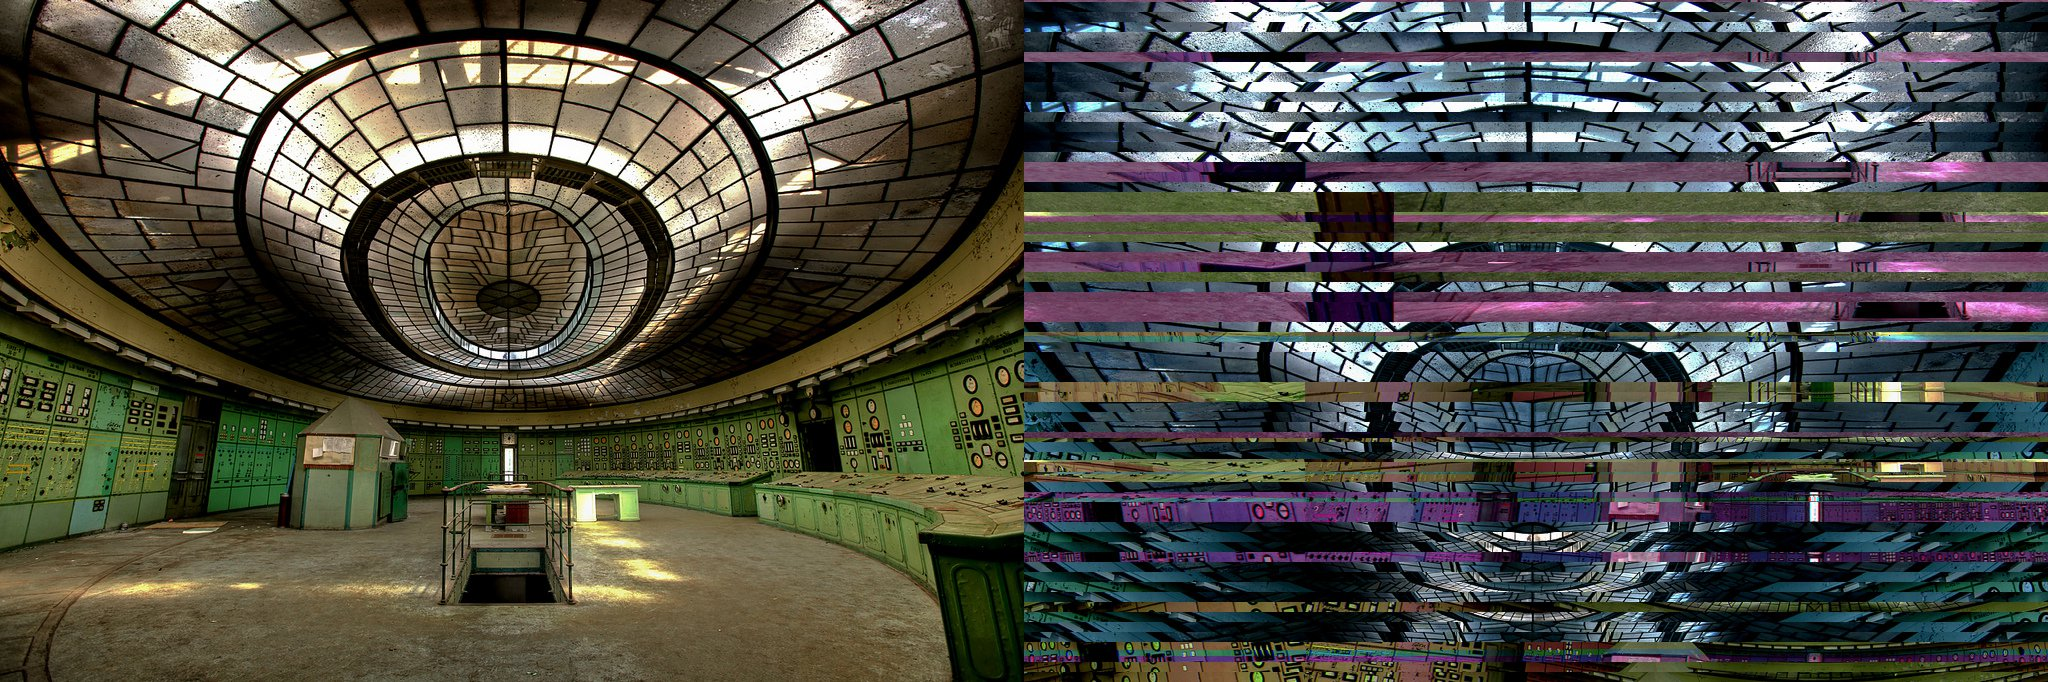
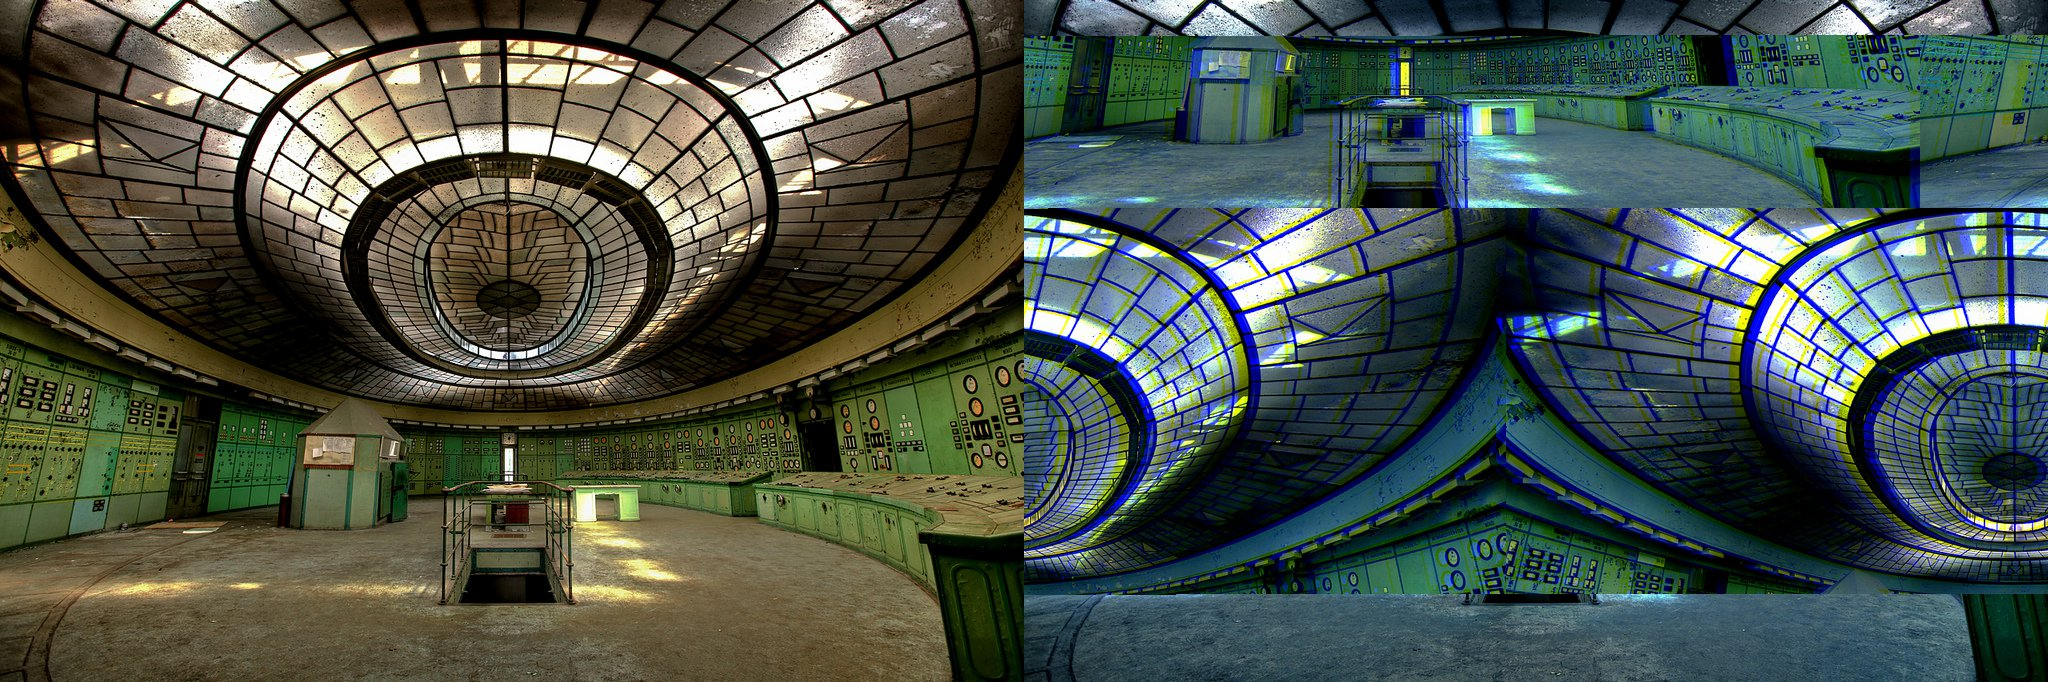
nn

diff --git a/pixels.py b/pixels.py
@@ -1,6 +1,6 @@
 import pygame
 from time import sleep
-from random import random
+from random import random, shuffle
 
 class Sorter:
 	def __init__(self):
@@ -42,10 +42,45 @@ class rotate(Sorter):
 	def sort(self,image):
 		return pygame.transform.rotate(image,90*self.turns)
 
+class apply_mask(Sorter):
+	def __init__(self,filter1, filter2, maskfilter):
+		self.filter1=filter1
+		self.filter2=filter2
+		self.maskfilter=maskfilter
 
+	def sort(self,image):
+		print "generating base"
+		base =self.filter1.sort(image.copy())
+		print "generating overlay"
+		maskimg = self.filter2.sort(image.copy()).convert_alpha() 
+		print "generating mask"
+		mask = self.maskfilter.sort(image)
 
+		print"applying mask"
 
+		for x in range(base.get_width()):
+			for y in range(base.get_height()):
+				# so painfully inefficient
+				c=maskimg.get_at((x,y))
+				c.a=int((mask.get_at((x,y)).hsva[2]/100.0)*255)
+				maskimg.set_at((x,y), c)
+		base.blit(maskimg, (0,0))
+		return base
 
+class invert(Sorter):
+	def __init__(self, filterm):
+		self.filterm=filterm
+
+	def inverted(self,img):
+	   inv = pygame.Surface(img.get_rect().size, pygame.SRCALPHA)
+	   inv.fill((255,255,255,255))
+	   inv.blit(img, (0,0), None, pygame.BLEND_RGB_SUB)
+	   return inv
+
+	def sort(self,image):
+		print "inverting"
+		i = self.filterm.sort(image)
+		return self.inverted(i)
 
 
 
@@ -382,7 +417,7 @@ class transposebits(Sorter):
 		start = int(n*self.startpoint)
 		end = int(n*self.startpoint+n*self.length)
 
-		new = buff[0:start]+buff[start:end]
+		new = buff[0:start]+buff[end:]
 		ins=buff[start:end]
 		
 		inspoint = int( n*self.insert )
@@ -394,11 +429,104 @@ class randomtransposition(transposebits):
 	def __init__(self):
 		transposebits.__init__(self,random(),random(),random())
 
+class _aware_block(Sorter):
+	def __init__(self, blocksize):
+		self.blocksize = blocksize
+
+	def mapdetail(self,image):
+		clone = pygame.transform.scale( image.copy(), (image.get_width()/self.blocksize,image.get_height()/self.blocksize))
+
+		detailmap = []
+		for x in range(clone.get_width()):
+			detailmap.append([])
+			for y in range(clone.get_height()):
+				reference = pygame.Surface((self.blocksize, self.blocksize))
+				reference.blit(image,(-x*self.blocksize, -y*self.blocksize))
+
+				diff = 0
+				orgcolor = clone.get_at((x,y))
+				for _x in range(reference.get_width()):
+					for _y in range(reference.get_height()):
+						 newcolor = reference.get_at((_x,_y))
+						 diff += abs(newcolor.r-orgcolor.r)
+						 diff += abs(newcolor.g-orgcolor.g)
+						 diff += abs(newcolor.b-orgcolor.b)
+				diff=diff/(3.0*self.blocksize*self.blocksize)
+				detailmap[x].append(diff)
+		return detailmap
+
+#inspired by mekon18's work
+class aware_block_display(_aware_block):
+	def __init__(self, blocksize):
+		_aware_block.__init__(self, blocksize)
+
+	def sort(self,image):
+		image=image.copy()
+		detailmap = self.mapdetail(image)
+		maxdet = 255*3
+
+		block = pygame.Surface((self.blocksize,self.blocksize))
+		for x in range(len(detailmap)):
+			for y in range(len(detailmap[x])):
+				block.set_alpha(detailmap[x][y])
+				image.blit(block,(x*self.blocksize, y*self.blocksize))
+		return image
+
+class aware_block_mask(_aware_block):
+	def __init__(self, blocksize):
+		_aware_block.__init__(self, blocksize)
+
+	def sort(self,image):
+		mask=pygame.Surface( (image.get_width(), image.get_height()) )
+		mask.fill(pygame.Color(255,255,255,255))
+
+		detailmap = self.mapdetail(image)
+
+		block = pygame.Surface((self.blocksize,self.blocksize))
+		for x in range(len(detailmap)):
+			for y in range(len(detailmap[x])):
+				block.set_alpha(255-detailmap[x][y])
+				mask.blit(block,(x*self.blocksize, y*self.blocksize))
+		return mask
 
 
 
+#see also david szauder's 'gil'
+class aware_block_scramble(_aware_block):
+	def __init__(self,blocksize,threshold):
+		_aware_block.__init__(self,blocksize)
+		self.threshold = threshold
 
+	def sort(self,image):
+		copy=image.copy()
+		print "analyzing"
+		detailmap = self.mapdetail(image)
 
+		print "calculating average detail"
+		avg=0
+		for x in range(len(detailmap)):
+			for y in range(len(detailmap[x])):
+				avg+=detailmap[x][y]
+		avg=avg/len(detailmap)/len(detailmap[0])
+
+		print "avg was %s"%(avg)
+
+		print "determining what to scramble"
+		scramble=[]
+		for x in range(len(detailmap)):
+			for y in range(len(detailmap[x])):
+				if(detailmap[x][y]>self.threshold):
+					scramble.append( (x,y) )
+		
+		print "scrambling"
+		block = pygame.Surface((self.blocksize,self.blocksize))
+		original = list(scramble)
+		shuffle(scramble)#should fix so is nonrandom.
+
+		for i in range(len(scramble)):
+			block.blit(image, (-original[i][0]*self.blocksize,-original[i][1]*self.blocksize) )
+			copy.blit(block, (scramble[i][0]*self.blocksize,scramble[i][1]*self.blocksize) )
+		return copy
 
 
 
@@ -415,6 +543,8 @@ def main():
 
 	print "working"
 
+	pygame.display.set_mode((100,20))
+
 	#sorter = Chain( sortbycolumn(1) )
 	#sorter = Chain( oradjacent(), rotate(1), sortbycolumn(20), rotate(-1) )
 	#sorter = Chain( andadjacent(), rotate(1), sortbycolumn(20), rotate(-1), sortbycolumn(20))
@@ -428,8 +558,10 @@ def main():
 	#sorter = Chain(sortbycolumn(20))
 	
 	#sorter = transposebits(0.2,0.2,0.3)
-	#sorter = repeat( 10, randomtransposition() )
-	sorter = Chain( repeat( 10, randomtransposition() ), rotate(1), sortbycolumn(10), rotate(3) )
+	sorter = repeat( 10, randomtransposition() )
+	#sorter = Chain( aware_block_display(40), aware_block_display(40) )
+	#sorter = Chain( aware_block_scramble(5,40))
+	#sorter = apply_mask( Sorter(), xoradjacent(), invert( aware_block_mask(40)) )
 
 
 	raw = pygame.image.load("test.jpg")
